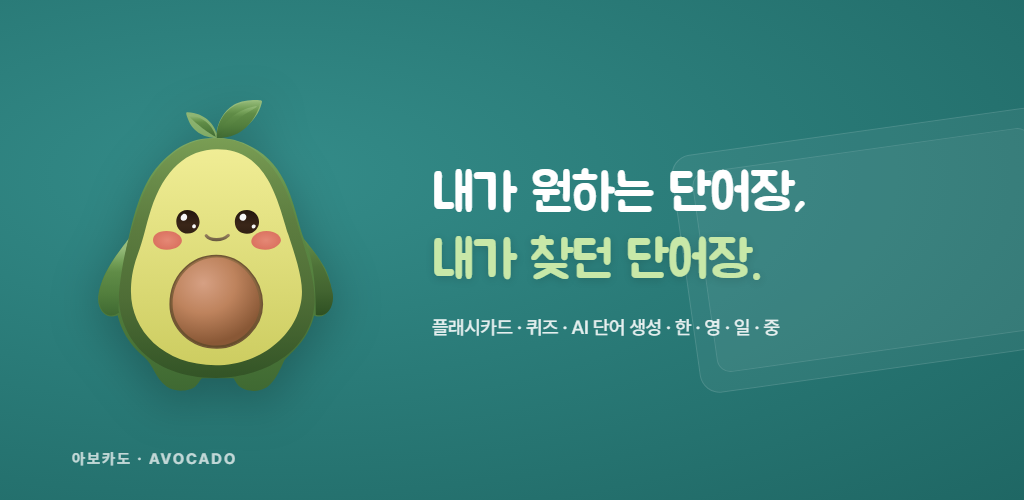
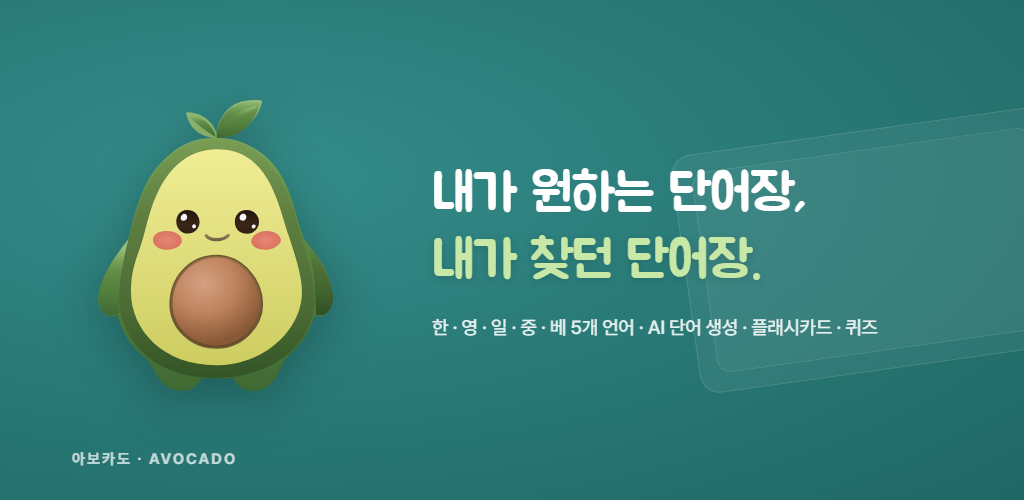
docs(store): Play Store listing 5개 언어 강조 + 큐레이션 라인업 명시
- 짧은/긴 설명: 한·영·일·중·베 5개 언어 명시, 자유로운 학습 방향 강조
- 큐레이션 라인업 본문에 노출: NGSL/BSL/NAWL/TSL · 일본어 기초/N3 · HSK1 · TOPIK A/B/C · 베트남어 기초
- 영문판: "K-pop and Hallyu fans worldwide" 등 글로벌 학습자 톤 추가
- feature-{ko,en}.html subline 5개 언어로 갱신 + PNG 재렌더링

Changed region(s): [[0.4062, 0.63, 0.875, 0.69]]

diff --git a/store-assets/feature-graphic/feature-ko.html b/store-assets/feature-graphic/feature-ko.html
@@ -87,7 +87,7 @@
   </div>
   <div class="text">
     <div class="headline">내가 원하는 단어장,<br><span class="emph">내가 찾던 단어장.</span></div>
-    <div class="subline">플래시카드 · 퀴즈 · AI 단어 생성 · 한 · 영 · 일 · 중</div>
+    <div class="subline">한 · 영 · 일 · 중 · 베 5개 언어 · AI 단어 생성 · 플래시카드 · 퀴즈</div>
   </div>
   <div class="brand">아보카도 · AVOCADO</div>
 </body>

diff --git a/store-assets/feature-graphic/feature-en.html b/store-assets/feature-graphic/feature-en.html
@@ -84,7 +84,7 @@
   </div>
   <div class="text">
     <div class="headline">Build. Find.<br><span class="emph">Memorize.</span></div>
-    <div class="subline">Vocabulary for KO · EN · JA · ZH learners</div>
+    <div class="subline">5 languages · EN · KO · JA · ZH · VI · learn any direction</div>
   </div>
   <div class="brand">AVOCADO</div>
 </body>

diff --git a/store-assets/listing/ko.md b/store-assets/listing/ko.md
@@ -13,14 +13,14 @@ Play Console → 스토어 등록정보 → 기본 스토어 등록정보(한국
 ## 짧은 설명 (최대 80자)
 
 ```
-내가 원하는 단어장은 만들고, 내가 찾던 단어장은 가져와서. 깔끔한 다국어 어휘 학습장.
+한·영·일·중·베 5개 언어 단어장. 직접 만들고, 모음에서 가져와서. 깔끔하게 외우는 학습장.
 ```
 
 ## 전체 설명 (최대 4000자)
 
 ```
 내가 원하는 단어장은 직접 만들고, 내가 찾던 단어장은 모음에서 가져와서.
-아보카도는 한 곳에서 만들고 외우는 깔끔한 어휘 학습 도구입니다.
+아보카도는 한 곳에서 만들고 외우는 깔끔한 어휘 학습 도구입니다. 한국어·영어·일본어·중국어·베트남어 5개 언어, 학습 방향은 자유롭게.
 
 ▸ 4가지 학습 모드
 - 플래시카드: 카드 한 장씩 직관적으로
@@ -48,13 +48,19 @@ Play Console → 스토어 등록정보 → 기본 스토어 등록정보(한국
 
 ▸ 단어 모음에서 쉽게 다운
 - 다른 학습자가 공유한 단어장 중에서 마음에 드는 걸 골라 바로 학습
-- 토익, 수능, 일상 회화 등 공식 큐레이션 단어장도 기본 제공
+- 공식 큐레이션 단어장 풍부하게 기본 제공
+  · 영어 — NGSL(기초)·BSL(비즈니스)·NAWL·TSL(학술/시험)
+  · 일본어 — 기초 500 · JLPT N3
+  · 중국어 — HSK 1급
+  · 한국어 — TOPIK 기초·중급·고급 (외국인 학습자용)
+  · 베트남어 — 기초 500
 - 잘 만든 내 단어장은 공유해 다른 학습자에게 도움 주기
 
-▸ 다국어 단어장 지원
-- 한국어, 영어, 일본어, 중국어
-- 입력 언어와 뜻 언어를 자유롭게 조합 (한↔영, 한↔일, 영↔중 등)
-- 한국어를 배우는 외국인 학습자도 동일한 흐름으로 이용 가능
+▸ 다국어 단어장 — 어느 언어에서 어느 언어로든
+- 한국어, 영어, 일본어, 중국어, 베트남어 5개 언어
+- 입력 언어와 뜻 언어를 자유롭게 조합 (한↔영, 한↔일, 영↔중, 베↔영, 한↔베 등 어떤 페어든)
+- 한국어를 배우는 외국인 학습자(K-pop·한류·유학·이민)에게도 동일한 흐름
+- 모국어가 무엇이든, 목표 언어가 무엇이든 — 세계 어디서나
 
 ▸ 나만의 스타일을 담은 스킨
 - 클래식, 다크 고요, Y2K, 실험실 등 다양한 테마
@@ -85,7 +91,7 @@ Play Console → 스토어 등록정보 → 기본 스토어 등록정보(한국
 - 사진·엑셀(CSV)·일괄 붙여넣기로 빠른 단어 추가
 - AI 단어 생성 — 주제만 입력하면 단어장이 완성
 - 단어 모음에서 다른 사용자의 단어장 다운로드
-- 한·영·일·중 다국어 학습
+- 한·영·일·중·베 5개 언어 단어장과 자유로운 학습 방향 페어
 - 4가지 테마 스킨 (클래식·다크 고요·Y2K·실험실)
 ```
 

diff --git a/store-assets/listing/en.md b/store-assets/listing/en.md
@@ -13,7 +13,7 @@ Avocado — Vocabulary Builder
 ## Short description (max 80 chars)
 
 ```
-Build, find, and memorize vocabulary lists. Korean, English, Japanese, Chinese.
+Vocabulary in 5 languages: English, Korean, Japanese, Chinese, Vietnamese.
 ```
 
 ## Full description (max 4000 chars)
@@ -21,7 +21,7 @@ Build, find, and memorize vocabulary lists. Korean, English, Japanese, Chinese.
 ```
 The word list you want. The word list you've been looking for. And the cleanest way to memorize either.
 
-Avocado is a personal vocabulary learning tool for Korean, English, Japanese, and Chinese — built to make every spare minute count.
+Avocado is a personal vocabulary learning tool for five languages — English, Korean, Japanese, Chinese, and Vietnamese — built to make every spare minute count. Whatever your native language, whatever you're learning, mix and match any direction.
 
 ▸ Four study modes
 - Flashcards: one card at a time, the way you remember best
@@ -49,13 +49,18 @@ Avocado is a personal vocabulary learning tool for Korean, English, Japanese, an
 
 ▸ Find what others have built
 - Browse word lists shared by other learners and import the ones you love
-- Official curated lists included (TOEIC, exam vocabulary, daily conversation)
+- A rich set of official curated lists, ready to study
+  · English — NGSL (foundation) · BSL (business) · NAWL · TSL (academic / exam)
+  · Japanese — Basic 500 · JLPT N3
+  · Chinese — HSK 1
+  · Korean — TOPIK Basic · Intermediate · Advanced (for English speakers)
+  · Vietnamese — Basic 500
 - Share your own lists to help the community
 
-▸ Multilingual word lists
-- Korean, English, Japanese, Chinese
-- Mix any input and meaning language (KR↔EN, KR↔JP, EN↔ZH, and more)
-- Designed equally for learners in every direction
+▸ Five languages, every direction
+- English, Korean, Japanese, Chinese, Vietnamese
+- Mix any input and meaning language (EN↔KR, KR↔JP, EN↔ZH, VI↔EN, KR↔VI — any pair)
+- Built equally for learners coming from any language to any language — including Korean for K-pop and Hallyu fans worldwide
 
 ▸ Make it yours with skins
 - Classic, Dark Calm, Y2K, Lab, and more themes to choose from
@@ -86,7 +91,7 @@ First release. Meet Avocado — your vocabulary study companion.
 - Add words fast with photo, CSV, and bulk paste
 - AI word generation — type a topic, get a full list
 - Browse and import word lists from other learners
-- Multilingual: Korean, English, Japanese, Chinese
+- Five languages: English, Korean, Japanese, Chinese, Vietnamese — any pairing
 - Four theme skins: Classic, Dark Calm, Y2K, Lab
 ```
 
